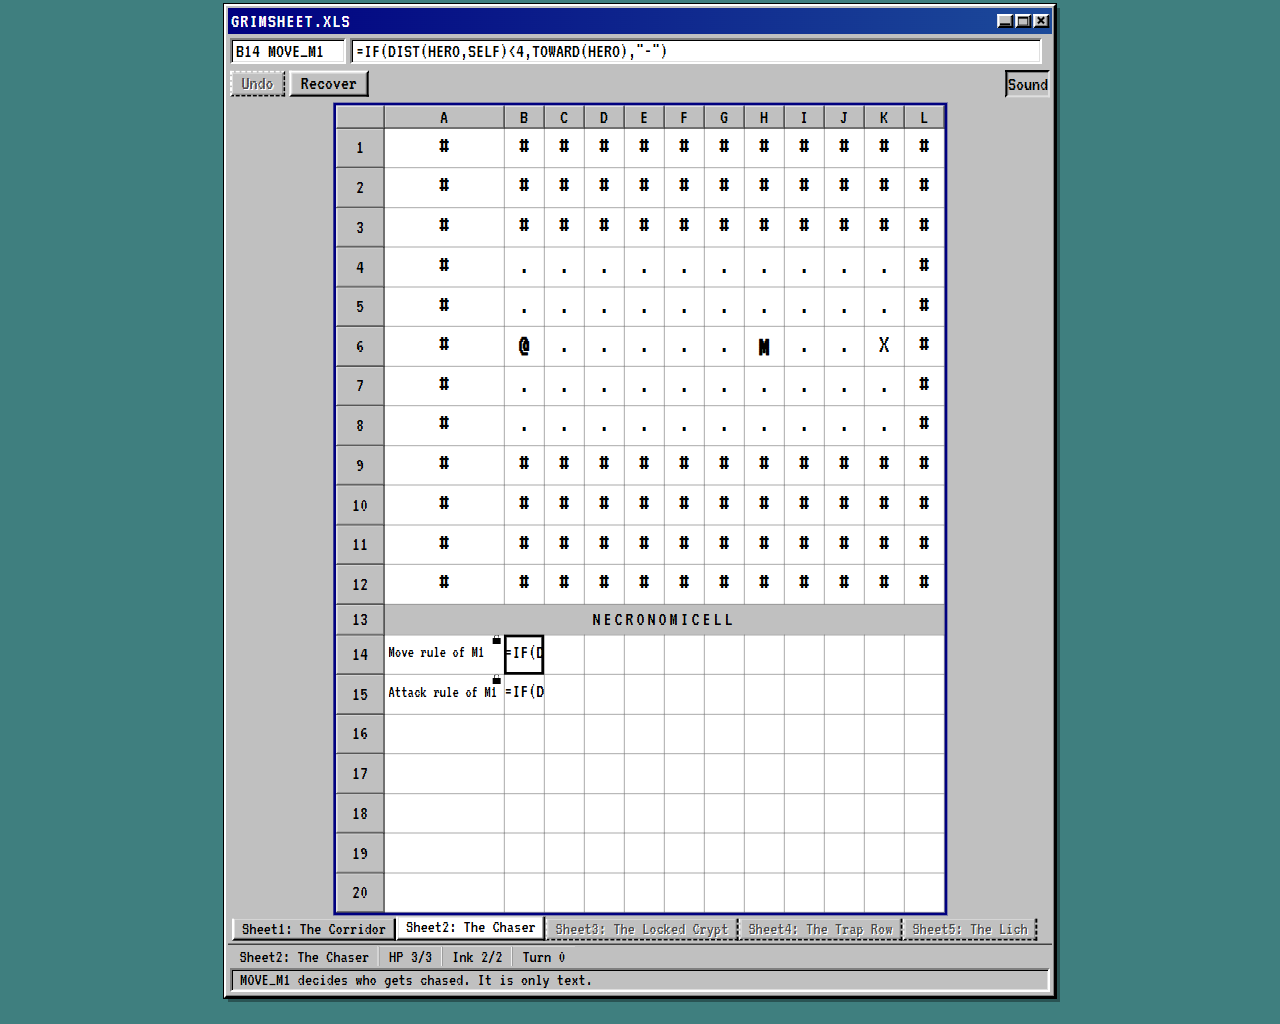
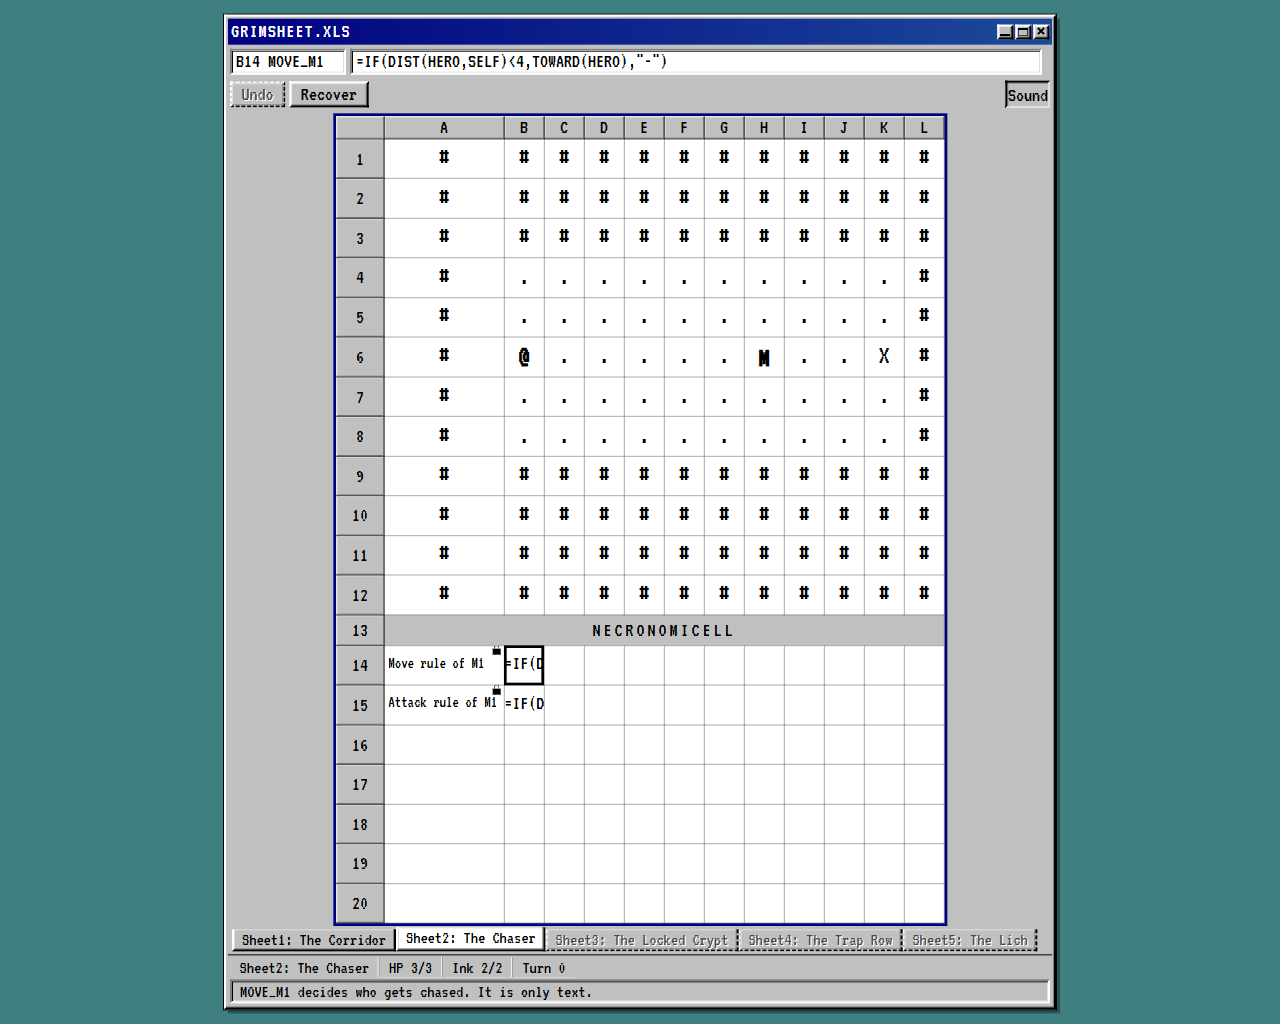
Kiro IDE: vertical centring on tall screens, README screenshots and eight specs, screenshot rule in steering, retakes

Changed region(s): [[0.1562, 0.0, 0.8438, 1.0], [0.25, 0.3125, 0.3125, 0.375], [0.2812, 0.4062, 0.3125, 0.4375]]

diff --git a/tests/e2e/skin.spec.ts b/tests/e2e/skin.spec.ts
@@ -248,3 +248,59 @@ test.describe('sticky status bar at 1280x1024', () => {
     await checkStickyStatusBar(page, false);
   });
 });
+
+// The window sits in the vertical middle of a tall viewport, and at the top of a short one.
+async function windowBox(page: Page) {
+  await page.evaluate(() => document.fonts.ready.then(() => undefined));
+  await expect.poll(() => page.evaluate(() => document.fonts.check('1rem VT323'))).toBe(true);
+  return page.evaluate(() => {
+    const box = document.querySelector('#window')?.getBoundingClientRect();
+    return {
+      top: box?.top ?? NaN,
+      bottom: box?.bottom ?? NaN,
+      innerHeight: window.innerHeight,
+      scrollHeight: document.documentElement.scrollHeight,
+      scrollY: window.scrollY,
+    };
+  });
+}
+
+test.describe('vertical centring', () => {
+  for (const [width, height] of [
+    [1920, 1200],
+    [2560, 1440],
+  ] as const) {
+    test.describe(`at ${width}x${height}`, () => {
+      test.use({ viewport: { width, height } });
+
+      test('the gap above the window equals the gap below it, and the page does not scroll', async ({ page }) => {
+        await seedLevel(page, 1);
+        await page.goto('/');
+        await pressStart(page);
+
+        const box = await windowBox(page);
+        const above = box.top;
+        const below = box.innerHeight - box.bottom;
+        expect(above).toBeGreaterThan(0);
+        expect(Math.abs(above - below)).toBeLessThanOrEqual(2);
+        expect(box.scrollHeight).toBeLessThanOrEqual(box.innerHeight);
+      });
+    });
+  }
+
+  test.describe('at 1366x768', () => {
+    test.use({ viewport: { width: 1366, height: 768 } });
+
+    test('nothing is cut off at the top when the window is taller than the viewport', async ({ page }) => {
+      await seedLevel(page, 1);
+      await page.goto('/');
+      await pressStart(page);
+
+      const box = await windowBox(page);
+      expect(box.scrollY).toBe(0);
+      expect(box.top).toBeGreaterThanOrEqual(0);
+      // The window is taller than the viewport here, so the page scrolls instead of centring.
+      expect(box.scrollHeight).toBeGreaterThan(box.innerHeight);
+    });
+  });
+});

diff --git a/src/styles/chrome.css b/src/styles/chrome.css
@@ -28,6 +28,22 @@ body {
   padding: 0.25rem 0;
   min-width: 54rem;
   background: var(--backdrop);
+  /* Vertical centring: body is a column that is at least one viewport tall, and #app takes the spare
+     height through auto block margins. No overflow value is set here (S17), and no justify-content,
+     which would cut off the top of a window taller than the viewport. */
+  display: flex;
+  flex-direction: column;
+  min-height: 100vh;
+  min-height: 100dvh;
+  /* The padding above counts inside the minimum height. Without this the body is 0.5rem taller than
+     the viewport (a scrollbar on a tall screen) and the centring is off by that much. */
+  box-sizing: border-box;
+}
+
+/* With spare height the auto margins split it above and below; with none they are 0 and the window
+   sits at the top. Horizontal centring stays with .grimsheet-app (margin: 0 auto). */
+#app {
+  margin-block: auto;
 }
 
 .grimsheet-app {

diff --git a/.kiro/specs/skin-and-sound/tasks.md b/.kiro/specs/skin-and-sound/tasks.md
@@ -1,4 +1,4 @@
-# Implementation Plan: Skin and Sound
+# Implementation Plan: Skin and Sound
 
 **Note: `skin-and-sound` builds on the finished `grid-ui`, `levels` and `error-monsters`, so `src/ui/` already holds `app.ts`, `render.ts`, `controller.ts`, `view-model.ts`, `key-map.ts`, `types.ts`, `strings.ts`, `error-look.ts` and `module.test.ts`, with `src/styles/grid-ui.css` and `src/styles/error-monsters.css`, and `src/main.ts` already imports the five real levels. It needs no other spec. The `hosting` tasks are independent of this plan: the only hosting file touched here is `scripts/check-dist.mjs` (task 2.2), and no other hosting task is started or changed.**
 
@@ -139,7 +139,7 @@ Rules that apply to every task:
 
   - [x] 6.2 [Batch 6] [IDE] Take the README screenshots (last task)
     - Files: create `docs/screenshots/01-title.png`, `docs/screenshots/02-level-play.png`, `docs/screenshots/03-monster-formula.png`, `docs/screenshots/04-error-monster.png`, `docs/screenshots/05-death-dialog.png`, `docs/screenshots/06-win-dialog.png`, `docs/screenshots/07-small-viewport.png`, `docs/screenshots/README.md`
-    - Manual and Playwright-MCP-driven; run it only after every other task is ticked. Start the dev server in the background with `node node_modules/vite/bin/vite.js`, use a clean browser profile (`localStorage.clear()` before the first shot) and check `document.documentElement.scrollHeight <= 1024` at 1280 by 1024 before shooting. Seed later levels with `localStorage.setItem('grimsheet.progress', JSON.stringify({ version: 1, cleared: [<ids before the level>], current: '<level id>' }))` and reload; level ids are `01-the-corridor`, `02-the-chaser`, `03-the-locked-crypt`, `04-the-trap-row`, `05-the-lich`. Deterministic action lists, all at 1280 by 1024 except the last: `01-title.png` clear storage, reload, shoot with the title dialog open and Start focused; `02-level-play.png` click Start, seed level 3 (cleared 01 and 02), reload, Start, click `B17` (`KEY`), shoot with the NECRONOMICELL panel and `=RUNE_ASH*RUNE_SALT` in the formula bar; `03-monster-formula.png` seed level 2 (cleared 01), reload, Start, click `B14` (`MOVE_M1`), shoot with its formula in the formula bar and the monster on the map; `04-error-monster.png` seed level 4 (cleared 01 to 03), reload, Start, click `F6` (the `#DIV/0!` cell), shoot with the cause line under the formula bar; `05-death-dialog.png` seed level 5 (cleared 01 to 04), reload, Start, press Space six times (haunted from turn 0), shoot the lost dialog with the focus ring on Recover; `06-win-dialog.png` seed level 1, reload, Start, press ArrowRight nine times (B6 to K6), shoot the win dialog with Next level focused; `07-small-viewport.png` resize to 1366 by 768, clear storage, reload, Start, scroll so the status bar rests at the viewport bottom, shoot the viewport with HP, ink, turn and Message visible. If a given action list does not reach the stated state, report the real list that did and use it
+    - Manual and Playwright-MCP-driven; run it only after every other task is ticked. Start the dev server in the background with `node node_modules/vite/bin/vite.js`, use a clean browser profile (`localStorage.clear()` before the first shot) and check `document.documentElement.scrollHeight <= 1024` at 1280 by 1024 before shooting. Before every shot, wait until no finite animation is still running: poll `document.getAnimations()` until none has `playState === 'running'` and a finite iteration count (ignore the endless ghost drift, which never finishes), so no slide or flash is caught mid-frame. Seed later levels with `localStorage.setItem('grimsheet.progress', JSON.stringify({ version: 1, cleared: [<ids before the level>], current: '<level id>' }))` and reload; level ids are `01-the-corridor`, `02-the-chaser`, `03-the-locked-crypt`, `04-the-trap-row`, `05-the-lich`. Deterministic action lists, all at 1280 by 1024 except the last: `01-title.png` clear storage, reload, shoot with the title dialog open and Start focused; `02-level-play.png` click Start, seed level 3 (cleared 01 and 02), reload, Start, click `B17` (`KEY`), shoot with the NECRONOMICELL panel and `=RUNE_ASH*RUNE_SALT` in the formula bar; `03-monster-formula.png` seed level 2 (cleared 01), reload, Start, click `B14` (`MOVE_M1`), shoot with its formula in the formula bar and the monster on the map; `04-error-monster.png` seed level 4 (cleared 01 to 03), reload, Start, click `F6` (the `#DIV/0!` cell), shoot with the cause line under the formula bar; `05-death-dialog.png` seed level 5 (cleared 01 to 04), reload, Start, press Space six times (haunted from turn 0), shoot the lost dialog with the focus ring on Recover; `06-win-dialog.png` seed level 1, reload, Start, press ArrowRight nine times (B6 to K6), shoot the win dialog with Next level focused; `07-small-viewport.png` resize to 1366 by 768, clear storage, reload, Start, scroll so the status bar rests at the viewport bottom, shoot the viewport with HP, ink, turn and Message visible. If a given action list does not reach the stated state, report the real list that did and use it
     - `docs/screenshots/README.md`: one line per file, seven lines, each naming the file and what it shows. Afterwards `localStorage.clear()`, close the browser, stop the dev server, remove temporary files, commit nothing
     - Look at every image and check that the shapes read as intended and the VT323 text is legible; list any visual problems found. Fix only trivial CSS bugs found this way; list anything else without fixing it
     - Tests: no new test file; the checks below are the test

diff --git a/README.md b/README.md
@@ -6,11 +6,7 @@ Play it: **https://grimsheet.onrender.com**
 
 A Kiroween 2026 entry (Frankenstein category).
 
-<!--
-  SCREENSHOTS: add once the error-monsters and skin-and-sound specs land.
-  Suggested: the title workbook (GRIMSHEET.XLS), a level mid-play with the NECRONOMICELL
-  rules panel, a monster formula selected in the formula bar, and the "#REF! of the Dead" death screen.
--->
+![Level 3, The Locked Crypt, in the GRIMSHEET.XLS window: the NECRONOMICELL rules panel below the map, and the formula =RUNE_ASH*RUNE_SALT of the KEY cell in the formula bar.](docs/screenshots/02-level-play.png)
 
 ## What it is
 
@@ -172,9 +168,9 @@ Grimsheet was built with Kiro, from a single input brief (`docs/BRIEF.md`) that 
 
 **Surfaces.** The Kiro IDE was used to write and review every spec and diff. The Kiro Crew Task Runner ran independent task batches in parallel on their own branches, merged after review. Kiro Web opened pull requests for spec documentation, the hosting spec with the Render static-site setup, and this README. The Kiro CLI ran the read-only reviewer agent on engine changes.
 
-**Specs.** Seven spec folders in [`.kiro/specs/`](.kiro/specs/), each with `requirements.md`, `design.md` and `tasks.md`: `formula-engine`, `sheet-model`, `game-rules`, `grid-ui`, `error-monsters`, `levels` and `hosting`, in the order of the brief. Five are complete — `formula-engine`, `sheet-model`, `game-rules`, `grid-ui` and `levels` — along with `hosting`; `error-monsters` is being implemented. The eighth spec from the brief, `skin-and-sound`, is planned but not yet written, so the live build still shows an unskinned grid.
+**Specs.** Eight spec folders in [`.kiro/specs/`](.kiro/specs/), each with `requirements.md`, `design.md` and `tasks.md`: `formula-engine`, `sheet-model`, `game-rules`, `grid-ui`, `error-monsters`, `levels`, `hosting` and `skin-and-sound`. All eight are built and shipped in the live build. The last one, `skin-and-sound`, gave the game its look and sound: the VT323 font shipped unchanged, beveled window chrome, a sticky status bar, five Web Audio beeps with a persistent mute, and title and end dialogs.
 
-**Steering.** Five files in [`.kiro/steering/`](.kiro/steering/): `product.md`, `tech.md` and `structure.md` always on, with `formulas.md` scoped to `src/engine/**` and `sheet-ui.md` scoped to the UI and CSS.
+**Steering.** Five files in [`.kiro/steering/`](.kiro/steering/): `product.md`, `tech.md` and `structure.md` always on, with `formulas.md` scoped to `src/engine/**` and `sheet-ui.md` scoped to `src/ui/**`, `**/*.css`, `src/levels/**`, `index.html` and `public/**`. `sheet-ui.md` also says that any change a player can see retakes the affected screenshots in `docs/screenshots` (as in task 6.2 of the `skin-and-sound` spec), and that all seven are retaken after the last visible change before the 2026-11-28 feature freeze.
 
 **Hooks.** Two in [`.kiro/hooks/`](.kiro/hooks/): run the fast tests on every save under `src/`, and run the full `npm run verify` before a task finishes. Both call `scripts/canonical-cwd.mjs`, a small wrapper that fixes the working-directory drive-letter case before running a command — without it, Vitest launched from a path with a lowercased drive letter loads two copies of itself and every suite fails.
 
@@ -184,7 +180,19 @@ Grimsheet was built with Kiro, from a single input brief (`docs/BRIEF.md`) that 
 
 ## Screenshots
 
-Screenshots of the skinned game will be listed in `docs/screenshots/README.md` once they are taken.
+![The title dialog over the GRIMSHEET.XLS window, with the Start button focused.](docs/screenshots/01-title.png)
+
+*The title dialog: Start hands the grid to the player.*
+
+![Level 4, The Trap Row: the #DIV/0! cell F6 selected, its formula in the formula bar, and the cause line "B15 (RATIO) divides by zero" under it.](docs/screenshots/04-error-monster.png)
+
+*A #DIV/0! error cell and its cause line, in plain English.*
+
+![Level 5, The Lich: the "#REF! of the Dead" dialog, "GRIMSHEET.XLS has stopped responding", over a sheet with #CYCLE! cells and a ghost in the rules panel.](docs/screenshots/05-death-dialog.png)
+
+*The death dialog, with Recover focused, on a haunted sheet of #CYCLE! cells.*
+
+All seven screenshots are listed in [`docs/screenshots/README.md`](docs/screenshots/README.md).
 
 ## Credits
 

diff --git a/KIRO_USAGE.md b/KIRO_USAGE.md
@@ -1079,3 +1079,29 @@ What changed because of it (time saved, bug caught, decision made):
 - The status reset on 3.3 was a tool-state fault, not a code fault: the files were right. I checked them before trusting the status.
 - Not covered: the hero was never moved, so no turn ran. I did not look at how the ghost and the crack behave with the hero standing on or beside them, and I did not test either level in the dark colour scheme or with reduced motion on.
 - Nothing was committed.
+
+## 2026-11-06 — skin-and-sound: spec to screenshots
+
+Surface: IDE and Crew
+
+Features: spec, mcp
+
+What I asked for: The eighth spec, skin-and-sound, from requirements to README screenshots: a late-1990s window around the grid, a pixel font, sound, a title screen and end dialogs, and proof that it all fits and works.
+
+What Kiro did:
+- Requirements and a measured design. The design is built on real measurements, not guesses. Kiro downloaded VT323 and measured it in the browser: error text became 0.75rem after 0.5rem proved illegible, and column A became 7.5rem because the widest rules label at 1rem is 109 px wide. Three decisions were made in review: ship the TTF unchanged (no conversion tool, no new dependency), a sticky status bar with layout checks at 1280 by 1024 and at 1366 by 768, and `R` restarts from the death dialog's Recover button (D21).
+- 13 tasks in 6 batches (the plan counts 13: three in Batch 1, two each in Batches 2 to 6). The IDE ran Batches 1, 3, 4 and 6, and also task 2.1, the audio player, which the plan had marked for Crew. Crew ran task 2.2 (the font, `OFL.txt`, the favicon, the README credit and the `check-dist` update) and task 5.2 (the existing e2e specs). The favicon link in `index.html` was added on the 2.2 branch, ahead of task 4.2, so 2.2 was merged twice.
+- Crew finished task 5.1 with no file and no commit, and task 5.2 with its work left uncommitted. I checked both by file list, not by the run summary. I committed 5.2 by hand, and task 5.1 (`tests/e2e/skin.spec.ts`) was redone in the IDE.
+- Bugs caught by the new tests and screenshots, each fixed with a test:
+  - `N` and `R` stopped working after a win, because the win dialog's Next button took focus and the Key_Map ignored the letters while a button had it. Fixed with Key_Map row 13a (D22), with tests.
+  - Map rows were 41 px tall, because the collapsed border added to `height: 2.5rem`. Fixed with `calc(2.5rem - 1px)`, found by `skin.spec.ts` checking that cells are 40 px square.
+  - Error text in rules-panel cells was clipped (`#DIV/` in level 4 B15, `#CYCL` in level 5 B18 and B19), because the rules-region font-size rule lacked `:not(.cell-error)` and overrode the small error size. I saw it in the screenshots in a separate review session. The fix is one selector, and a new e2e fit check now requires the error text box to fit its cell on those three cells. The check fails on the old CSS.
+- The new product-name check also caught the name of a desktop operating system in `README.md`, which was reworded.
+- Screenshots: seven, taken last with the Playwright MCP from fixed action lists, in `docs/screenshots/`. Screenshots 04 and 05 were retaken after the clipping fix. `README.md` now shows the hero image under the intro and three screenshots in its Screenshots section.
+- End state: 74 unit test files and 1829 tests, 28 e2e tests, seven screenshots in `docs/screenshots`, and the game live on Render.
+
+What changed because of it (time saved, bug caught, decision made):
+- `skin-and-sound/tasks.md` still labels 2.1 and 5.1 `[Crew]`, although the IDE ran both. This entry is the record of where they ran.
+- Lesson, again: a Crew step can end with no file and no commit, or with files and no commit, and the summary reads the same in both cases. Checking the file list against the plan is the check that works.
+- The clipped error text passed every unit test and the first e2e fit check, because that check only looked at one cell in the map region. It was found by looking at the screenshots. The new check covers the rules region too.
+- Nothing was committed by this entry or by the README edit.

diff --git a/.kiro/steering/sheet-ui.md b/.kiro/steering/sheet-ui.md
@@ -1,6 +1,6 @@
 ---
 inclusion: fileMatch
-fileMatchPattern: ["src/ui/**", "**/*.css"]
+fileMatchPattern: ["src/ui/**", "**/*.css", "src/levels/**", "index.html", "public/**"]
 ---
 
 # Sheet UI and visual design
@@ -35,3 +35,15 @@ Recover button that restarts the level.
 ## Accessibility
 Keyboard play (arrows, Space) must work fully. Provide visible focus, sufficient contrast, and text equivalents
 (`aria-label`) for glyph and sprite cells. Never convey state by color alone.
+
+## Screenshots stay current
+`docs/screenshots/` holds seven PNGs used in the README and the Devpost gallery. They must match the live build.
+- When a change alters what a player sees (layout, chrome, fonts, colours, strings, dialogs, level maps, labels or
+  hints), say in the task report which of the seven screenshots it affects, and retake those files before the work
+  is called done.
+- Retake with the Playwright MCP exactly as task 6.2 of `.kiro/specs/skin-and-sound/tasks.md` describes: same file
+  names, same action lists, 1280 by 1024 (`07-small-viewport.png` at 1366 by 768), clean profile, progress seeded
+  through `grimsheet.progress`. Before every shot, poll `document.getAnimations()` until no finite animation is still running (the endless ghost drift never finishes, so skip it), so no slide or flash is caught mid-frame. Look at every retaken image and update `docs/screenshots/README.md` if a caption
+  changed.
+- A change that is not visible (tests, engine internals with identical output, docs) needs no retake; say so.
+- Feature freeze is 2026-11-28: after the last visible change, retake all seven once more.
